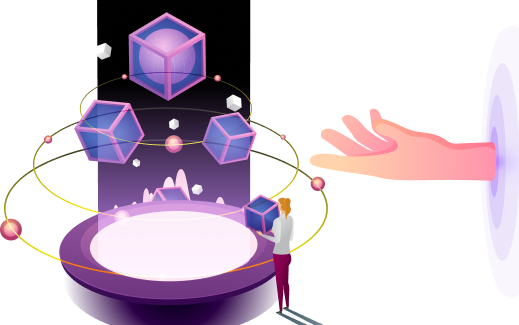
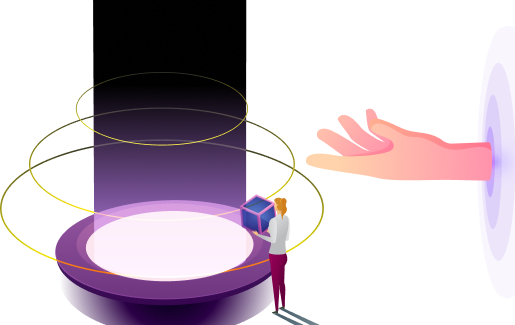
cropped and adjusted the sub section image accordiong to the project from figma

diff --git a/index.html b/index.html
@@ -594,7 +594,7 @@
                 class="container d-flex justify-content-center align-items-start pos-sub-sec-full z-14 position-relative">
                 <div class="sub-box position-relative w-100">
                     <div class="pos-sub-sec position-absolute h-100 d-flex align-items-center justify-content-center">
-                        <img src="./assets/Images/PNG/subs-sec-img.png"
+                        <img src="./assets/Images/PNG/sub-sec-img.png"
                             alt="random immage with some dots and a lady at  the bottom"
                             class="w-h-media-sub-sec opac-20-max-lg">
                     </div>

diff --git a/assets/css/style.css b/assets/css/style.css
@@ -598,7 +598,7 @@ hr {
     filter: blur(170px);
     border-radius: 50%;
     top: -100px;
-    right: 45px;
+    right: 0;
     z-index: 10;
 }
 
